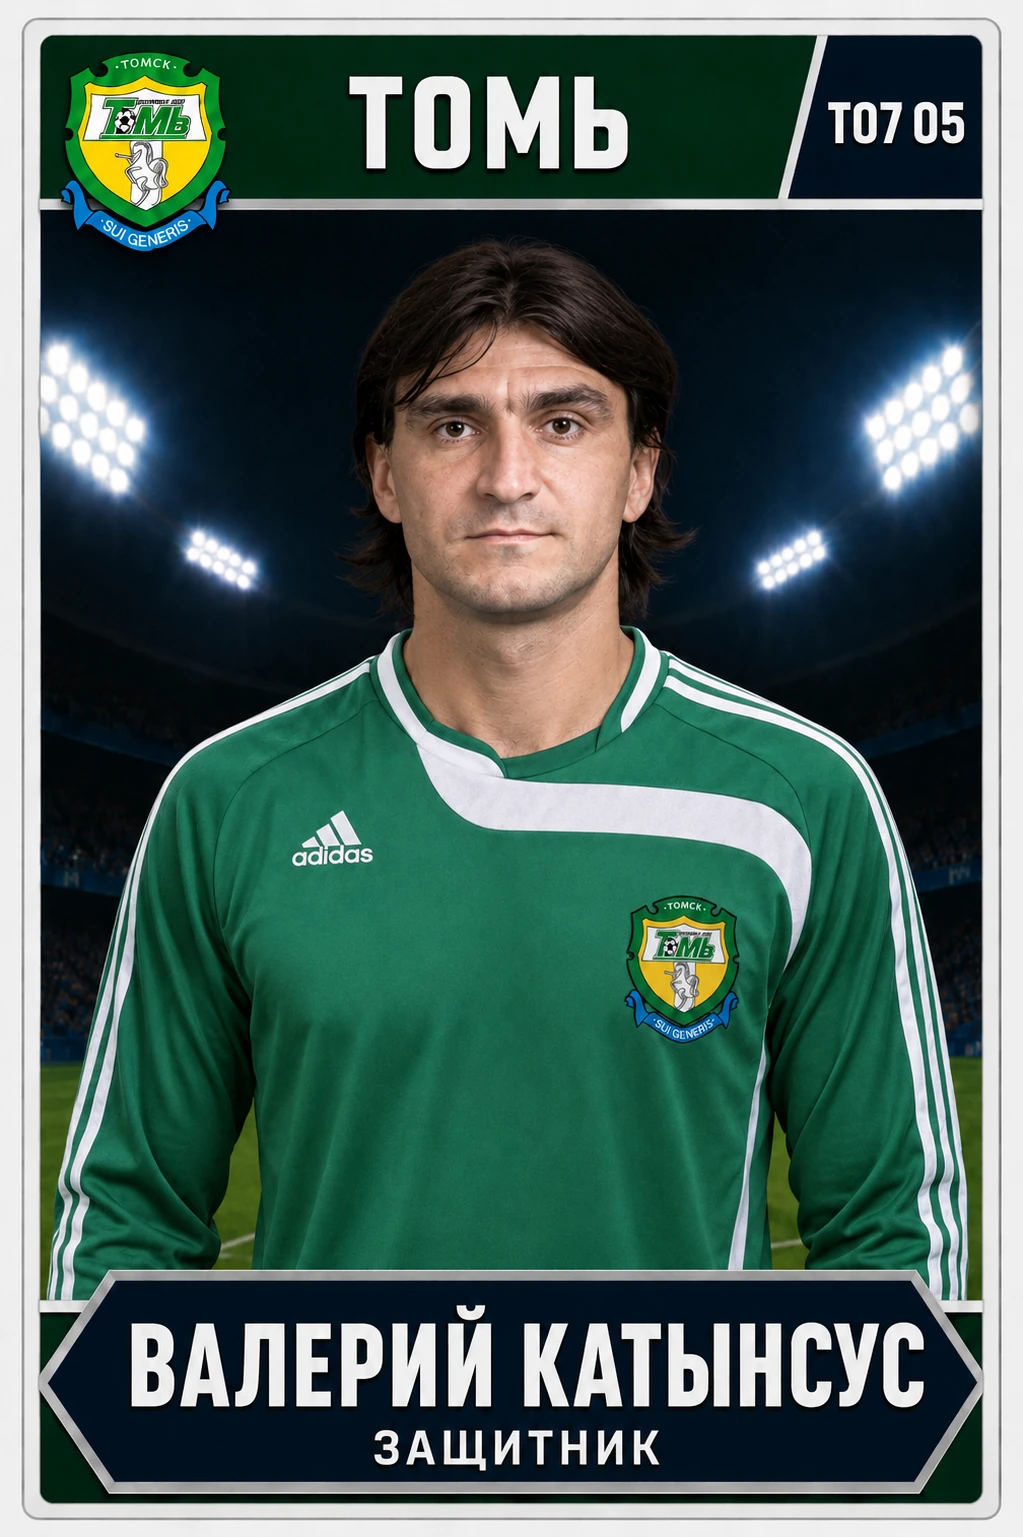
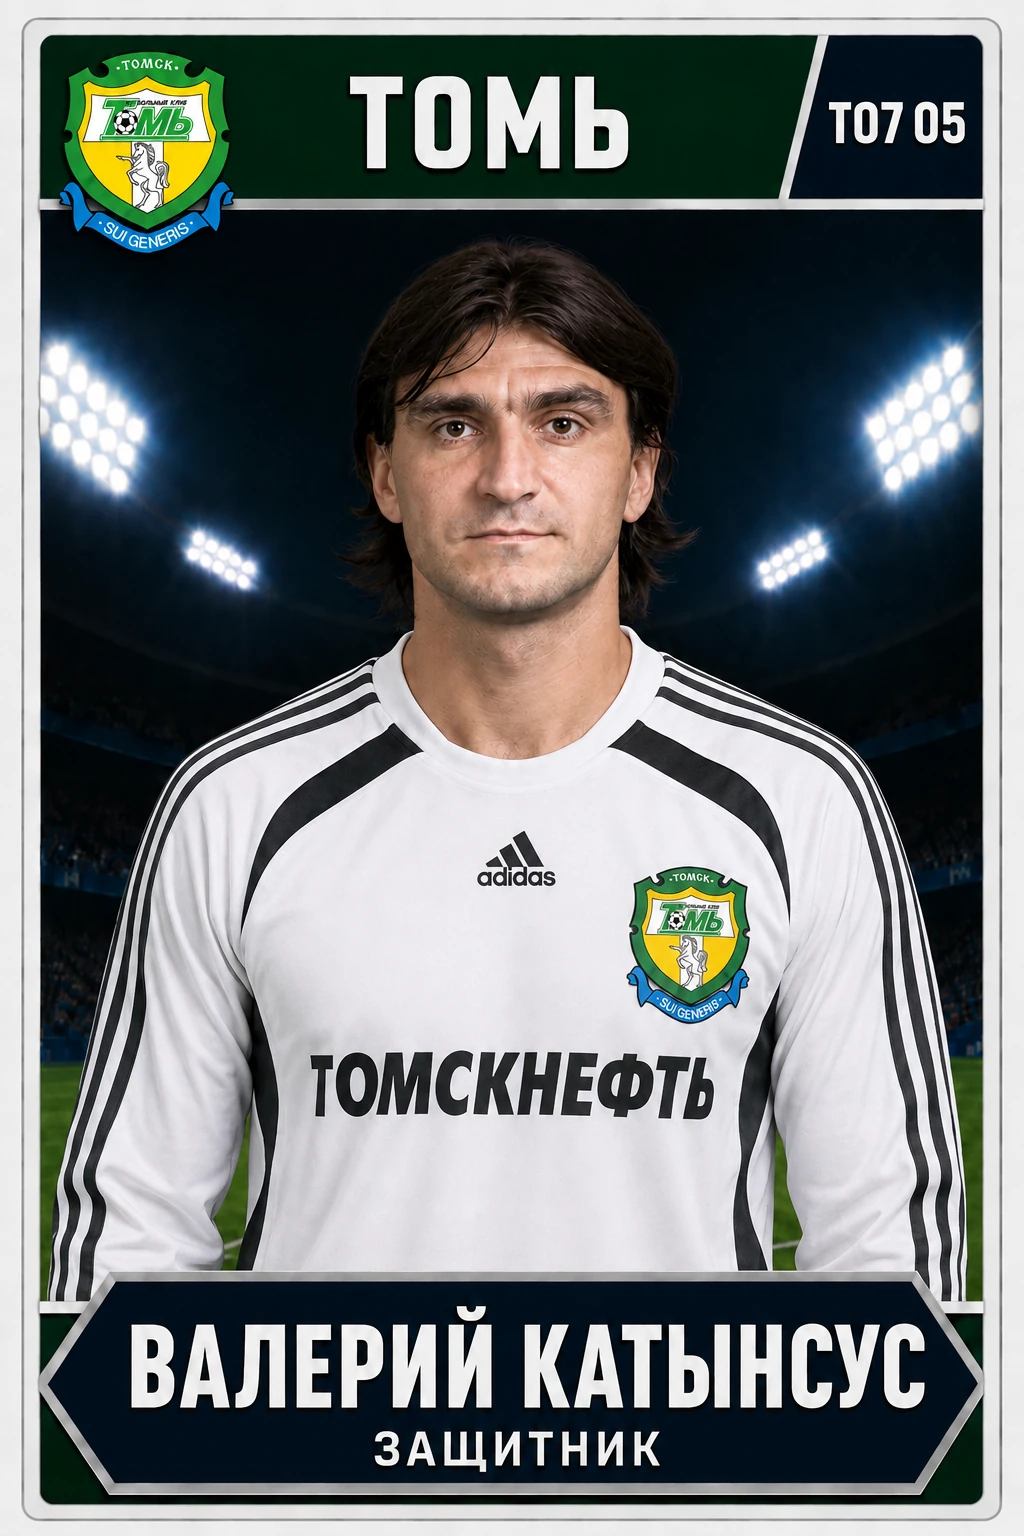
fix: сервер будет работать с впн fix: картинки в png (+ скрипт)

diff --git a/vite.config.ts b/vite.config.ts
@@ -16,7 +16,9 @@ export default defineConfig({
     },
   },
   server: {
-    host: true,
+    // Bind explicitly to every local IPv4 interface. This keeps the dev server
+    // reachable when a VPN adds/removes interfaces and changes their priority.
+    host: '0.0.0.0',
     allowedHosts: ['sticker-book.ru', 'www.sticker-book.ru'],
     cors: {
       preflightContinue: true,
@@ -29,7 +31,7 @@ export default defineConfig({
     },
   },
   preview: {
-    host: true,
+    host: '0.0.0.0',
     allowedHosts: ['sticker-book.ru', 'www.sticker-book.ru'],
   },
 })

diff --git a/scripts/convert-png-to-webp.py b/scripts/convert-png-to-webp.py
@@ -1,0 +1,188 @@
+#!/usr/bin/env python3
+"""Convert PNG images to WebP and remove sources after successful conversion."""
+
+from __future__ import annotations
+
+import argparse
+import os
+import stat
+import sys
+import tempfile
+from pathlib import Path
+
+try:
+    from PIL import Image
+except ImportError as error:
+    raise SystemExit(
+        "Pillow is required: install it with `python -m pip install Pillow`."
+    ) from error
+
+
+PROJECT_ROOT = Path(__file__).resolve().parent.parent
+
+
+def parse_args() -> argparse.Namespace:
+    parser = argparse.ArgumentParser(
+        description=(
+            "Recursively convert PNG files to WebP. Relative paths are resolved "
+            "from the project root."
+        )
+    )
+    parser.add_argument("paths", nargs="+", type=Path, help="PNG files or directories")
+    parser.add_argument(
+        "--quality",
+        type=int,
+        default=90,
+        choices=range(1, 101),
+        metavar="1-100",
+        help="lossy WebP quality (default: 90)",
+    )
+    parser.add_argument(
+        "--lossless",
+        action="store_true",
+        help="use lossless WebP compression; --quality is ignored",
+    )
+    parser.add_argument(
+        "--keep-source",
+        action="store_true",
+        help="keep PNG files after successful conversion",
+    )
+    return parser.parse_args()
+
+
+def resolve_input(path: Path) -> Path:
+    absolute = path if path.is_absolute() else PROJECT_ROOT / path
+    absolute = Path(os.path.abspath(absolute))
+    try:
+        absolute.relative_to(PROJECT_ROOT)
+    except ValueError as error:
+        raise ValueError(f"Path is outside the project root: {absolute}") from error
+    return absolute
+
+
+def is_link(path: Path) -> bool:
+    attributes = getattr(path.lstat(), "st_file_attributes", 0)
+    reparse_point = getattr(stat, "FILE_ATTRIBUTE_REPARSE_POINT", 0)
+    return path.is_symlink() or bool(attributes & reparse_point)
+
+
+def ensure_no_links(path: Path) -> None:
+    relative = path.relative_to(PROJECT_ROOT)
+    current = PROJECT_ROOT
+    for part in relative.parts:
+        current /= part
+        if is_link(current):
+            raise ValueError(f"Symbolic links and junctions are not supported: {current}")
+
+
+def collect_png_files(paths: list[Path]) -> list[Path]:
+    files: set[Path] = set()
+
+    for raw_path in paths:
+        path = resolve_input(raw_path)
+        if not path.exists():
+            raise FileNotFoundError(f"Path does not exist: {path}")
+        ensure_no_links(path)
+
+        if path.is_file():
+            if path.suffix.lower() != ".png":
+                raise ValueError(f"Expected a PNG file: {path}")
+            files.add(path)
+            continue
+
+        for candidate in path.rglob("*"):
+            if candidate.is_file() and candidate.suffix.lower() == ".png":
+                ensure_no_links(candidate)
+                files.add(candidate.resolve())
+
+    return sorted(files, key=lambda item: str(item).lower())
+
+
+def convert_image(source: Path, *, quality: int, lossless: bool) -> Path:
+    destination = source.with_suffix(".webp")
+    temporary_path: Path | None = None
+
+    try:
+        with Image.open(source) as image:
+            image.load()
+            has_alpha = image.mode in {"RGBA", "LA"} or (
+                image.mode == "P" and "transparency" in image.info
+            )
+            converted = image.convert("RGBA" if has_alpha else "RGB")
+
+            metadata = {}
+            if icc_profile := image.info.get("icc_profile"):
+                metadata["icc_profile"] = icc_profile
+            if exif := image.info.get("exif"):
+                metadata["exif"] = exif
+
+            with tempfile.NamedTemporaryFile(
+                dir=source.parent,
+                prefix=f".{source.stem}-",
+                suffix=".webp",
+                delete=False,
+            ) as temporary_file:
+                temporary_path = Path(temporary_file.name)
+
+            save_options = {
+                "format": "WEBP",
+                "method": 6,
+                "lossless": lossless,
+                **metadata,
+            }
+            if not lossless:
+                save_options["quality"] = quality
+
+            converted.save(temporary_path, **save_options)
+
+        if temporary_path.stat().st_size == 0:
+            raise RuntimeError(f"Encoder created an empty file for {source}")
+
+        os.replace(temporary_path, destination)
+        return destination
+    finally:
+        if temporary_path is not None and temporary_path.exists():
+            temporary_path.unlink()
+
+
+def main() -> int:
+    args = parse_args()
+
+    try:
+        sources = collect_png_files(args.paths)
+    except (FileNotFoundError, ValueError) as error:
+        print(f"Error: {error}", file=sys.stderr)
+        return 1
+
+    if not sources:
+        print("No PNG files found.")
+        return 0
+
+    converted_size = 0
+    source_size = 0
+
+    for source in sources:
+        original_size = source.stat().st_size
+        destination = convert_image(
+            source,
+            quality=args.quality,
+            lossless=args.lossless,
+        )
+        if not args.keep_source:
+            source.unlink()
+
+        source_size += original_size
+        converted_size += destination.stat().st_size
+        print(f"{source.relative_to(PROJECT_ROOT)} -> {destination.name}")
+
+    saved_size = source_size - converted_size
+    print(
+        f"Converted {len(sources)} file(s): "
+        f"{source_size:,} -> {converted_size:,} bytes "
+        f"({saved_size:,} bytes saved)."
+    )
+    return 0
+
+
+if __name__ == "__main__":
+    raise SystemExit(main())
